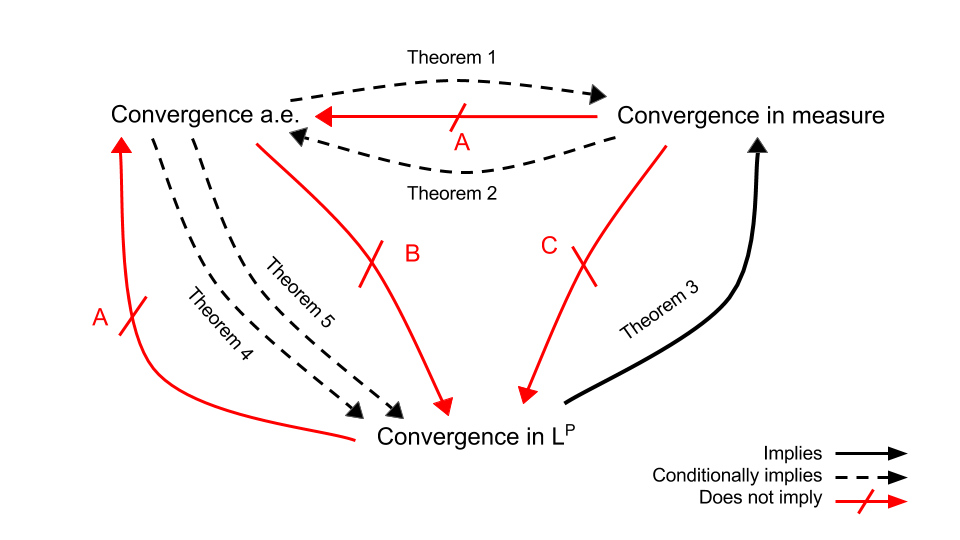
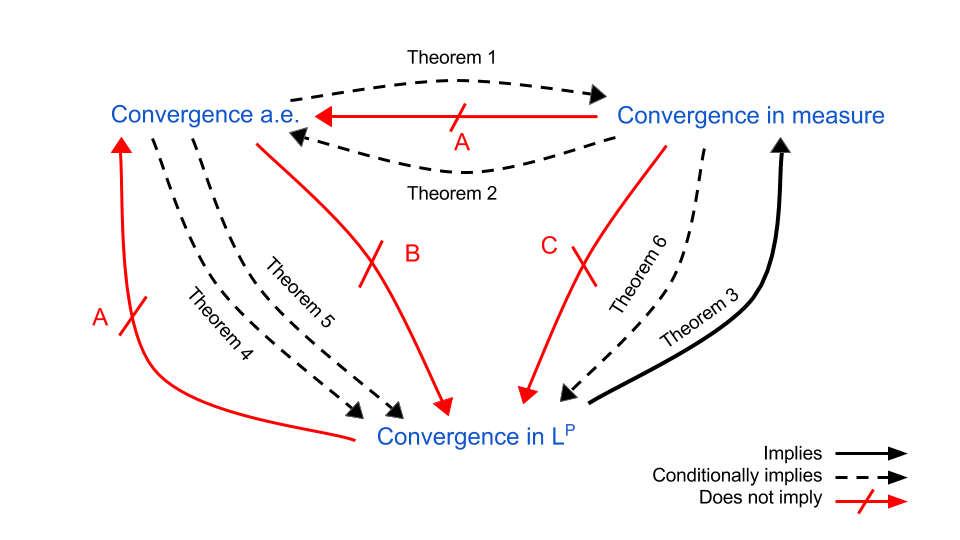
stuff

diff --git a/math/post004/content.html b/math/post004/content.html
@@ -8,11 +8,22 @@
 <p><strong>Theorem 2:</strong> <em>Suppose <span class="math inline">\(f_{n} \rightarrow f\)</span> in measure. Then there exists a subsequence <span class="math inline">\(\{n_{k}\}_{k=0}^{\infty}\)</span> such that <span class="math inline">\(f_{n_{k}} \rightarrow f\)</span> a.e. (<span class="math inline">\(\mu\)</span>).</em></p>
 <p><strong>Theorem 3:</strong> <em>If <span class="math inline">\(f_{n} \rightarrow f\)</span> in <span class="math inline">\(L^{p}(\Omega, \mathcal{S}, \mu)\)</span>, <span class="math inline">\(0 &lt; p &lt; \infty\)</span>, then <span class="math inline">\(f_{n} \rightarrow f\)</span> in measure. If <span class="math inline">\(\mu(\Omega) &lt; \infty\)</span> and <span class="math inline">\(f_{n} \rightarrow f\)</span> in <span class="math inline">\(L^{\infty}\)</span>, then <span class="math inline">\(f_{n} \rightarrow f\)</span> in measure.</em></p>
 <p><strong>Theorem 4:</strong> (Scheffe's Theorem) <em>Suppose <span class="math inline">\(f_{n} \geq 0\)</span>, <span class="math inline">\(f_{n} \in L^{1}\)</span> for all <span class="math inline">\(n \in \mathbb{N}\)</span> and <span class="math inline">\(f_{n} \rightarrow f\)</span> a.e. (<span class="math inline">\(\mu\)</span>). If</em> <span class="math display">\[ \int f_{n}\ d\mu \rightarrow \int f\ d\mu &lt; \infty.\]</span> <em>Then <span class="math inline">\(f_{n} \rightarrow f\)</span> in <span class="math inline">\(L^{1}\)</span>.</em></p>
-<p><strong>Theorem 5:</strong> <em>Suppose <span class="math inline">\(\mu(\Omega) &lt; \infty\)</span>, <span class="math inline">\(f_{n} in L^{1}\)</span> for all <span class="math inline">\(n \in \mathbb{N}\)</span>, <span class="math inline">\(f_{n} \rightarrow f\)</span> a.e. (<span class="math inline">\(\mu\)</span>), and <span class="math inline">\(\{f_{n}\}_{n=0}^{\infty}\)</span> is <a href="./post001.html">UI</a>. Then <span class="math inline">\(f \in L^{1}\)</span> and <span class="math inline">\(f_{n} \rightarrow f\)</span> in <span class="math inline">\(L^{1}\)</span>.</em></p>
+<p><strong>Theorem 5:</strong> <em>Suppose <span class="math inline">\(\mu(\Omega) &lt; \infty\)</span>, <span class="math inline">\(f_{n} \in L^{1}\)</span> for all <span class="math inline">\(n \in \mathbb{N}\)</span>, <span class="math inline">\(f_{n} \rightarrow f\)</span> a.e. (<span class="math inline">\(\mu\)</span>), and <span class="math inline">\(\{f_{n}\}_{n=0}^{\infty}\)</span> is <a href="./post001.html">UI</a>. Then <span class="math inline">\(f \in L^{1}\)</span> and <span class="math inline">\(f_{n} \rightarrow f\)</span> in <span class="math inline">\(L^{1}\)</span>.</em></p>
+<p><strong>Theorem 6:</strong> <em>Suppose <span class="math inline">\(\mu(\Omega) &lt; \infty\)</span>, <span class="math inline">\(f_{n} \in L^{p}\)</span>, <span class="math inline">\(0 &lt; p &lt; \infty\)</span>, <span class="math inline">\(\{|f_{n}|^{p}\}_{n=0}^{\infty}\)</span> is UI, and <span class="math inline">\(f_{n} \rightarrow f\)</span> in measure. Then <span class="math inline">\(f \in L^{p}\)</span> and <span class="math inline">\(f_{n} \rightarrow f\)</span> in <span class="math inline">\(L^{p}\)</span>.</em></p>
 <p><strong>Counter examples:</strong></p>
 <p>For each of the following examples suppose <span class="math inline">\(\mu\)</span> is Lebesgue measure on <span class="math inline">\(\mathbb{R}\)</span> and <span class="math inline">\(f \equiv 0\)</span>.</p>
 <p>A. Suppose <span class="math inline">\(\Omega = [0,1]\)</span>. For <span class="math inline">\(k\geq 1\)</span> and <span class="math inline">\(0 \leq i &lt; 2^{k}\)</span>, let <span class="math inline">\(n = n(k, i) = 2^{k} + i\)</span> and define <span class="math inline">\(f_{n} := \chi_{E_{n}}\)</span>, where <span class="math inline">\(E_{n} := [i2^{-k}, (i+1)2^{-k}]\)</span>. Then <span class="math inline">\(f_{n} \rightarrow f\)</span> in measure and in <span class="math inline">\(L^{p}\)</span>, <span class="math inline">\(0 &lt; p \leq \infty\)</span>, but <span class="math inline">\(f_{n} \not\rightarrow f\)</span> a.e. (<span class="math inline">\(\mu\)</span>).</p>
 <p>B. Suppose <span class="math inline">\(\Omega = [0, \infty)\)</span>. Let <span class="math inline">\(f_{n} := \chi_{[n,\infty)}\)</span> for each <span class="math inline">\(n \geq 0\)</span>. Then <span class="math inline">\(f_{n} \rightarrow f\)</span> a.e. (<span class="math inline">\(\mu\)</span>) but <span class="math inline">\(f_{n} \not\rightarrow f\)</span> in <span class="math inline">\(L^{p}\)</span>, <span class="math inline">\(0 &lt; p \leq \infty\)</span>.</p>
 <p>C. Suppose <span class="math inline">\(\Omega = [0,1]\)</span> and for <span class="math inline">\(n \geq 1\)</span>, let <span class="math inline">\(f_{n} := n\chi_{[0,n^{-1}]}\)</span>. Then <span class="math inline">\(f_{n} \rightarrow f\)</span> in measure but not in <span class="math inline">\(L^{p}\)</span>, <span class="math inline">\(0 &lt; p \leq \infty\)</span>.</p>
 <h3 id="characterizations-of-convergence-probability-theory">Characterizations of convergence (probability theory)</h3>
+<div class="figure">
+<img src="./figures/post004/convergence_probTheory.png" />
+
+</div>
+<p><strong>Theorem 7:</strong> <em>Suppose <span class="math inline">\(\{X_{n}\}_{n=0}^{\infty}\)</span> is UI and <span class="math inline">\(X_{n} \rightarrow X\)</span> in distribution. Then <span class="math inline">\(E|X_{0}| &lt; \infty\)</span> and <span class="math inline">\(EX_{n} \rightarrow EX_{0}\)</span>.</em></p>
+<p><strong>Theorem 8:</strong> (Skorohod's Embedding Theorem) <em>Suppose <span class="math inline">\(X, X_1, X_2, ...\)</span> are random variables, possibly defined on different probability spaces. Let <span class="math inline">\(\mu, \mu_{n}\)</span> denote the probability distributions of <span class="math inline">\(X, X_{n}\)</span>, respectively, on <span class="math inline">\((\mathbb{R}, \mathcal{B}(\mathbb{R}))\)</span> for <span class="math inline">\(n \in \mathbb{N}\)</span>. If <span class="math inline">\(X_{n} \rightarrow X\)</span> in distribution, i.e. <span class="math inline">\(\mu_{n}\)</span> coverges to <span class="math inline">\(\mu\)</span> weakly, then there exists random variables <span class="math inline">\(Y\)</span>, <span class="math inline">\(Y_{n}\)</span>, <span class="math inline">\(n \in \mathbb{N}\)</span>, defined on a common probability space <span class="math inline">\((\Omega, \mathcal{S}, P)\)</span> such that <span class="math inline">\(Y, Y_{n}\)</span> have probability distributions <span class="math inline">\(\mu, \mu_{n}\)</span>, respectively, for <span class="math inline">\(n \in \mathbb{N}\)</span>, and so that <span class="math inline">\(Y_{n} \rightarrow Y\)</span> a.s. (<span class="math inline">\(P\)</span>).</em></p>
+<p><strong>Theorem 9:</strong> <em>Suppose <span class="math inline">\(\{X_{n}\}_{n=1}^{\infty}\)</span> is a sequence of independent random variables on probability space. Let <span class="math inline">\(S_{n} := \sum_{j=1}^{n}X_{n}\)</span>. Then <span class="math inline">\(S_{n}\)</span> converges in probability to a random variable <span class="math inline">\(S\)</span> if and only if <span class="math inline">\(S_{n}\)</span> converges a.s. (<span class="math inline">\(P\)</span>) to <span class="math inline">\(S\)</span>.</em></p>
+<p><strong>Theorem 10:</strong> <em>Convergence in probability implies convergence in distribution. Hence so does convergence a.s. and convergence in <span class="math inline">\(L^{p}\)</span>, <span class="math inline">\(0 &lt; p \leq \infty\)</span>.</em></p>
+<p><strong>Counter examples:</strong></p>
+<p>D. Suppose <span class="math inline">\(X, X_{1}, X_{2}, ...\)</span> are uniform <span class="math inline">\((0,1)\)</span> random variables but <span class="math inline">\(X\)</span> is defined on a different probability space than <span class="math inline">\(\{X_{n}\}_{n=0}^{\infty}\)</span>. Then <span class="math inline">\(X_{n} \rightarrow X\)</span> in distribution and in expectation, but not in probability, in <span class="math inline">\(L^{p}\)</span>, or almost surely.</p>
 <h3 id="characterizations-of-continuity">Characterizations of continuity</h3>

diff --git a/math/post004/content.md b/math/post004/content.md
@@ -15,8 +15,11 @@ If $\mu(\Omega) < \infty$ and $f_{n} \rightarrow f$ in $L^{\infty}$, then $f_{n}
 $$ \int f_{n}\ d\mu \rightarrow \int f\ d\mu < \infty.$$
 *Then $f_{n} \rightarrow f$ in $L^{1}$.*
 
-**Theorem 5:** *Suppose $\mu(\Omega) < \infty$,  $f_{n} in L^{1}$ for all $n \in \mathbb{N}$, $f_{n} \rightarrow f$ a.e. ($\mu$), and $\{f_{n}\}_{n=0}^{\infty}$ is 
+**Theorem 5:** *Suppose $\mu(\Omega) < \infty$,  $f_{n} \in L^{1}$ for all $n \in \mathbb{N}$, $f_{n} \rightarrow f$ a.e. ($\mu$), and $\{f_{n}\}_{n=0}^{\infty}$ is 
 [UI](./post001.html). Then $f \in L^{1}$ and $f_{n} \rightarrow f$ in $L^{1}$.*
+
+**Theorem 6:** *Suppose $\mu(\Omega) < \infty$, $f_{n} \in L^{p}$, $0 < p < \infty$, $\{|f_{n}|^{p}\}_{n=0}^{\infty}$ is UI, and $f_{n} \rightarrow f$ in measure. Then $f \in L^{p}$ 
+and $f_{n} \rightarrow f$ in $L^{p}$.*
 
 **Counter examples:**
 
@@ -30,6 +33,26 @@ B. Suppose $\Omega = [0, \infty)$. Let $f_{n} := \chi_{[n,\infty)}$ for each $n 
 C. Suppose $\Omega = [0,1]$ and for $n \geq 1$, let $f_{n} := n\chi_{[0,n^{-1}]}$. Then $f_{n} \rightarrow f$ in measure but not in $L^{p}$, $0 < p \leq \infty$.
 
 ### Characterizations of convergence (probability theory)
+
+![](./figures/post004/convergence_probTheory.png)
+
+**Theorem 7:** *Suppose $\{X_{n}\}_{n=0}^{\infty}$ is UI and $X_{n} \rightarrow X$ in distribution. Then $E|X_{0}| < \infty$ and $EX_{n} \rightarrow EX_{0}$.*
+
+**Theorem 8:** (Skorohod's Embedding Theorem) *Suppose $X, X_1, X_2, ...$ are random variables, possibly defined on different probability spaces.
+Let $\mu, \mu_{n}$ denote the probability distributions of $X, X_{n}$, respectively, on $(\mathbb{R}, \mathcal{B}(\mathbb{R}))$ for 
+$n \in \mathbb{N}$. If $X_{n} \rightarrow X$ in distribution, i.e. $\mu_{n}$ coverges to $\mu$ weakly, then there exists random variables $Y$, $Y_{n}$, $n \in \mathbb{N}$, defined
+on a common probability space $(\Omega, \mathcal{S}, P)$ such that $Y, Y_{n}$ have probability distributions $\mu, \mu_{n}$, respectively, for $n \in \mathbb{N}$, and so that 
+$Y_{n} \rightarrow Y$ a.s. ($P$).*
+
+**Theorem 9:** *Suppose $\{X_{n}\}_{n=1}^{\infty}$ is a sequence of independent random variables on probability space. 
+Let $S_{n} := \sum_{j=1}^{n}X_{n}$. Then $S_{n}$ converges in probability to a random variable $S$ if and only if $S_{n}$ converges a.s. ($P$) to $S$.*
+
+**Theorem 10:** *Convergence in probability implies convergence in distribution. Hence so does convergence a.s. and convergence in $L^{p}$, $0 < p \leq \infty$.*
+
+**Counter examples:**
+
+D. Suppose $X, X_{1}, X_{2}, ...$ are uniform $(0,1)$ random variables but $X$ is defined on a different probability space than $\{X_{n}\}_{n=0}^{\infty}$. Then $X_{n} \rightarrow X$
+in distribution and in expectation, but not in probability, in $L^{p}$, or almost surely.
 
 
 ### Characterizations of continuity
